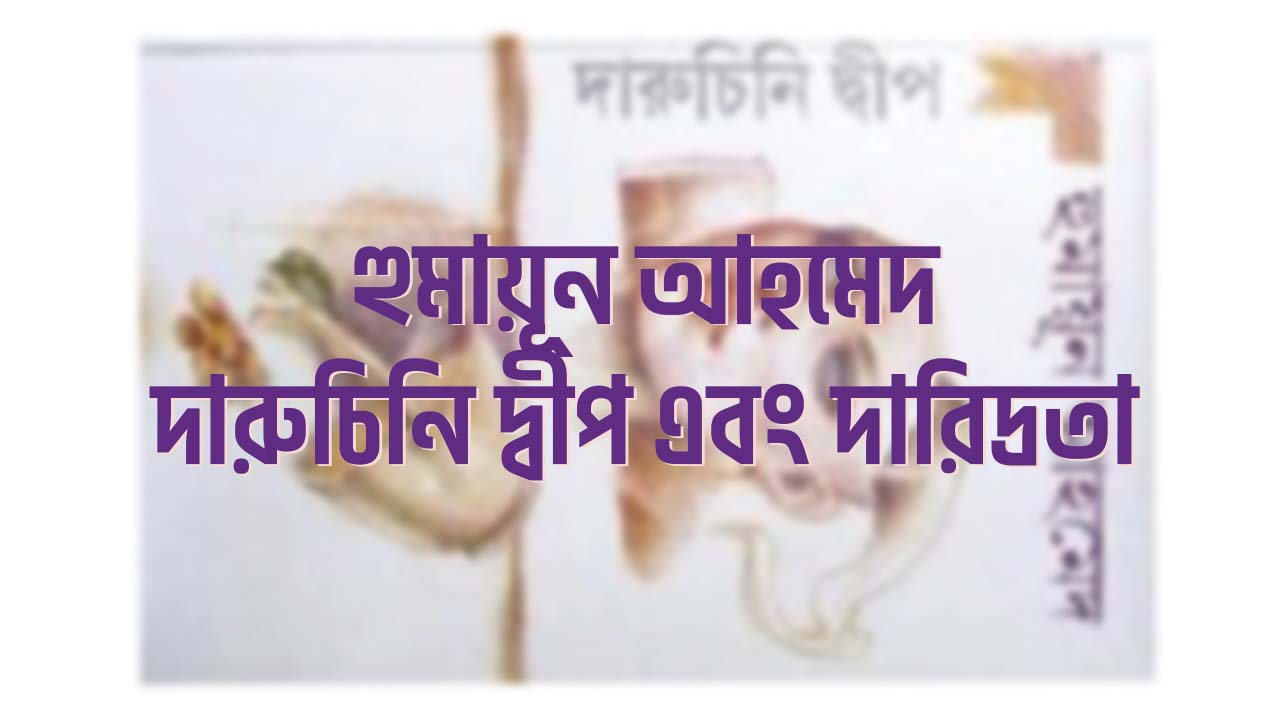
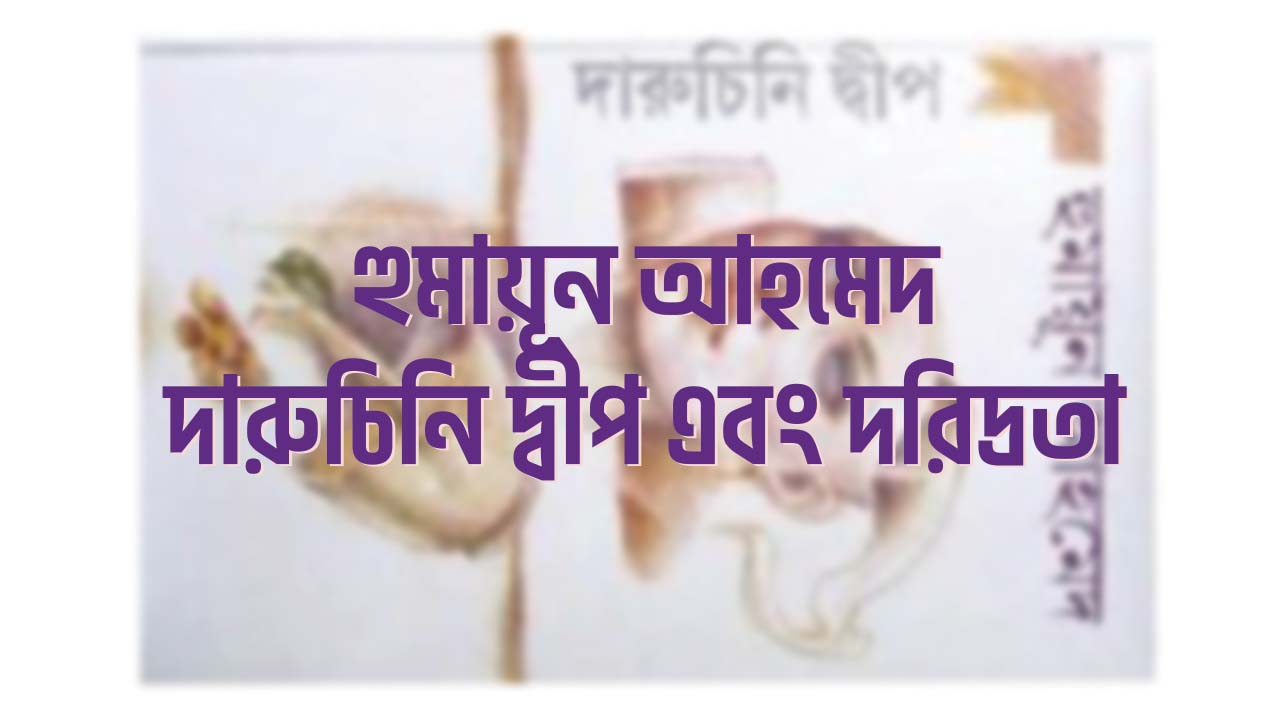
Latest Post Edited

Changed region(s): [[0.125, 0.4889, 0.9062, 0.6722], [0.0938, 0.5194, 0.125, 0.55]]

diff --git a/posts/writings/philosophy/humayun-ahmed-daruchini-dip-daridrota.md b/posts/writings/philosophy/humayun-ahmed-daruchini-dip-daridrota.md
@@ -11,10 +11,10 @@ lang: 'bn'
 description: বর্তমানে আমরা ঠিক এই দারিদ্রতার অভাবেই ভালোবাসতে ভুলে যাচ্ছি। জীবন, ক্যারিয়ার ইত্যাদির মাঝখানে যেনো একটা লুপ চলছে সবসময়।...
 ---
 
-দারুচিনি দ্বীপ ছবিটার শেষের দিকে একটা ডায়ালোগ আছে, “দারিদ্রতা আমার ভালোবাসার অধিকার কাইড়া নিছে।” যদিও এটা একটা বাবার তার মেয়েকে উদ্দেশ্য করে বলা একটা লাইন, তবুও এই লাইনটার গভীরতা অনেক বেশি। সিনটা ছিলো ঠিক এরকম, নিজের মেয়ের সাথে সবসময় কড়া গলায় কথা বলেন বাবা। সেদিনও তার ব্যতিক্রম ছিলোনা। মেয়ে তার বাবার দিকে তাকিয়ে বললেন, “বাবা আমার সাথে একটু নরম ভাষায় কথা বলতে পারো? অনেকদিন বলোনা”, এরপরেই কাঁদতে শুরু করে বাবা-মেয়ে। তখনই বাবা মেয়েকে উদ্দেশ্য করে এই লাইনটা বলেন।
+দারুচিনি দ্বীপ ছবিটার শেষের দিকে একটা ডায়ালোগ আছে, “দরিদ্রতা আমার ভালোবাসার অধিকার কাইড়া নিছে।” যদিও এটা একটা বাবার তার মেয়েকে উদ্দেশ্য করে বলা একটা লাইন, তবুও এই লাইনটার গভীরতা অনেক বেশি। সিনটা ছিলো ঠিক এরকম, নিজের মেয়ের সাথে সবসময় কড়া গলায় কথা বলেন বাবা। সেদিনও তার ব্যতিক্রম ছিলোনা। মেয়ে তার বাবার দিকে তাকিয়ে বললেন, “বাবা আমার সাথে একটু নরম ভাষায় কথা বলতে পারো? অনেকদিন বলোনা”, এরপরেই কাঁদতে শুরু করে বাবা-মেয়ে। তখনই বাবা মেয়েকে উদ্দেশ্য করে এই লাইনটা বলেন।
 
-আমি গভীরভাবে অনুভব করলাম এই লাইনটা অনেক শক্তিশালী। শুধুমাত্র বাবা-মেয়ের ক্ষেত্রেই না, ভালোবাসার ক্ষেত্রেও। উপলব্ধি করলাম, বর্তমানে আমরা ঠিক এই দারিদ্রতার অভাবেই ভালোবাসতে ভুলে যাচ্ছি। জীবন, ক্যারিয়ার ইত্যাদির মাঝখানে যেনো একটা লুপ চলছে সবসময়। সারাদিন পরিশ্রম করছি শুধুমাত্র একটাই আশায়, ভবিষ্যতটা হয়তো সুন্দর হবে। এখন একটু কষ্ট করলে হয়তো ভবিষ্যতের জীবনটা সুখে কাটানো যাবে। এই চাওয়াটা বেশ সুন্দর এবং বাস্তব। তবে এর উল্টো পিঠও আছে। যেমন ধরুন, এই জীবনটাকে ব্যস্ত করতে গিয়ে, জীবনটাকে সুন্দর করে গড়তে গিয়ে, আপনি আপনার বাবা-মায়ের সাথে এক টেবিলে বসে ভাত খাবার সময় পান না, কিংবা আপনি তাদের থেকে দূরে থাকেন এবং সারাদিনের ব্যস্ততায় তাদেরকে ফোন করে খোঁজ নেওয়ারও সময় পান না। যখনও সময় পান, তখনও সেটা ভালোবাসার চাইতে বেশি নিত্যদিনের অভ্যাস আর দায়িত্ববোধ থেকেই, তবে সেখানে মোটাদাগে ভালোবাসা খুঁজতে গেলে পাবেন না বোধহয়। এই স্ট্রাগলে, আপনার প্রিয় মানুষটাকে সময় দেওয়া হচ্ছেনা, একসাথে হয়তো আছেন, কিংবা ভবিষ্যতে থাকবেন, তার খারাপ লাগা, ভালো লাগাকে বুঝার মতো সময়টুকুও নেই আপনার হাতে, সে কিসে অভিমান করে, কিসে করেনা সেটাও আপনি বুঝতে পারেন না, দিনে দিনে আপনাদের দূরত্ব বাড়ে, অথচ, আপনারা স্বপ্ন দেখেছিলেন একসাথে সুন্দরভাবে বাঁচবেন, আর মাত্র কয়েকটা দিন কষ্ট করেই। জীবন গড়িয়ে যাচ্ছে, আর আমরা তখনো দারিদ্রতা এবং মধ্যবিত্তের লুপে আটকা। সুন্দর একটা জীবন চাইতে গিয়ে, নিজেদের বর্তমানকে পড়ার টেবিলেই হারিয়ে ফেলছি আমরা। আদৌতেও জানিনা, যাদের নিয়ে আমরা বাঁচতে চাই, তারা ঠিক আমাদের বর্তমান পেরিয়ে ওঠা পর্যন্ত থাকবেন কিনা, কিংবা আমরাই সেই পর্যন্ত টিকে থাকবো কিনা। কিন্তু, ঠিক যেই স্বপ্নটা আমাদেরকে বাঁচায়, কষ্ট করায়, সেই একই স্বপ্ন, আমাদেরকে আমাদের আপনজনের থেকে দূরেও ঠেলে দেয়।
+আমি গভীরভাবে অনুভব করলাম এই লাইনটা অনেক শক্তিশালী। শুধুমাত্র বাবা-মেয়ের ক্ষেত্রেই না, ভালোবাসার ক্ষেত্রেও। উপলব্ধি করলাম, বর্তমানে আমরা ঠিক এই দরিদ্রতার অভাবেই ভালোবাসতে ভুলে যাচ্ছি। জীবন, ক্যারিয়ার ইত্যাদির মাঝখানে যেনো একটা লুপ চলছে সবসময়। সারাদিন পরিশ্রম করছি শুধুমাত্র একটাই আশায়, ভবিষ্যতটা হয়তো সুন্দর হবে। এখন একটু কষ্ট করলে হয়তো ভবিষ্যতের জীবনটা সুখে কাটানো যাবে। এই চাওয়াটা বেশ সুন্দর এবং বাস্তব। তবে এর উল্টো পিঠও আছে। যেমন ধরুন, এই জীবনটাকে ব্যস্ত করতে গিয়ে, জীবনটাকে সুন্দর করে গড়তে গিয়ে, আপনি আপনার বাবা-মায়ের সাথে এক টেবিলে বসে ভাত খাবার সময় পান না, কিংবা আপনি তাদের থেকে দূরে থাকেন এবং সারাদিনের ব্যস্ততায় তাদেরকে ফোন করে খোঁজ নেওয়ারও সময় পান না। যখনও সময় পান, তখনও সেটা ভালোবাসার চাইতে বেশি নিত্যদিনের অভ্যাস আর দায়িত্ববোধ থেকেই, তবে সেখানে মোটাদাগে ভালোবাসা খুঁজতে গেলে পাবেন না বোধহয়। এই স্ট্রাগলে, আপনার প্রিয় মানুষটাকে সময় দেওয়া হচ্ছেনা, একসাথে হয়তো আছেন, কিংবা ভবিষ্যতে থাকবেন, তার খারাপ লাগা, ভালো লাগাকে বুঝার মতো সময়টুকুও নেই আপনার হাতে, সে কিসে অভিমান করে, কিসে করেনা সেটাও আপনি বুঝতে পারেন না, দিনে দিনে আপনাদের দূরত্ব বাড়ে, অথচ, আপনারা স্বপ্ন দেখেছিলেন একসাথে সুন্দরভাবে বাঁচবেন, আর মাত্র কয়েকটা দিন কষ্ট করেই। জীবন গড়িয়ে যাচ্ছে, আর আমরা তখনো দরিদ্রতা এবং মধ্যবিত্তের লুপে আটকা। সুন্দর একটা জীবন চাইতে গিয়ে, নিজেদের বর্তমানকে পড়ার টেবিলেই হারিয়ে ফেলছি আমরা। আদৌতেও জানিনা, যাদের নিয়ে আমরা বাঁচতে চাই, তারা ঠিক আমাদের বর্তমান পেরিয়ে ওঠা পর্যন্ত থাকবেন কিনা, কিংবা আমরাই সেই পর্যন্ত টিকে থাকবো কিনা। কিন্তু, ঠিক যেই স্বপ্নটা আমাদেরকে বাঁচায়, কষ্ট করায়, সেই একই স্বপ্ন, আমাদেরকে আমাদের আপনজনের থেকে দূরেও ঠেলে দেয়।
 
 পড়ার টেবিলে বসে যখন আপনি আপনার সিলেবাস নিয়ে ভাবছেন, ঠিক সেই সময় আপনার প্রিয় মানুষটা আপনার গতকাল রাতের কোনো একটা কথায় কষ্ট পেয়ে বসে আছে, আপনি জানেনও না। কারণ, অন্য সময়ে তার যেই গলা শুনলেই আপনি বুঝে যেতেন, সামথিং ইজ রং, সেই গলায় এখন আর আপনি সেটা খুঁজে পান না। কারণ, আপনার সেই সময়টাই নেই। যেই রাগ-অভিমান আপনি ভাঙ্গাতেন রাত-দিন বসে, এখন ঠিক সেই রাগ-অভিমানই আপনার কাছে বোঝা। কারণ, আপনি স্বপ্ন পূরণে ব্যস্ত। জীবনের সবচেয়ে গুরুত্বপূর্ণ সময়গুলো আমাদের কাটছে এভাবেই। কেউবা অফিসে বসে, কেউবা পড়ার টেবিলে। সবাই আমরা একই দিকে দৌঁড়াচ্ছি, যেখানে হোঁচট খেলে হয়তো হারাবো নিজেদের সেই স্বপ্নে দেখা ভবিষ্যত, আর জিতে গেলে, বাঁচতে হবে এমন কিছু নিয়ে, যেটা বহুদিন ধরে ঠিক না করতে করতে, গ্রামের ছবিতে থাকা দিগন্তের মতো দূরে। অথচ, আমাদের এই এক জীবনে কতো ভালোবাসা দেওয়ার ছিলো, আমাদের বাবা-মায়েদের, পরিচিতদের, কতো সময় দেওয়ার কথা ছিলো আমাদের প্রিয় মানুষদের, বন্ধুদের। কিন্তু, নিজের ক্যাটেগরী পরিবর্তনের লুপে আমরা আটকা। জমে থাকা ভালোবাসাগুলো যখন বর্তমান থেকে ভবিষ্যতে যাবে, আমাদের স্বপ্নটা পূর্ণতা পাবে, ঠিক তখনো হয়তো সারাদিনের ব্যস্ততা আমাদের ওই একই লুপেই আটকে রাখবে। বাসায় ফিরে ক্লান্ত হয়ে আমরা ঘুমের রাজ্যে চলে যাবো, নিজের প্রিয় মানুষটা, আমাদের বাবা-মা, তাদের দিকে তাকিয়ে নিজেদেরকে বলতে পারবোনা, “এইটুকুই আমার আছে, এটাই আমার পৃথিবী।” কিছুই কি বদলাবে? কিছুই বদলাবেনা! এখনকার স্ট্রাগল হয়ে যাবে তখনকার চাকরি। অথচ, কতো ভালোবাসা নিজের প্রিয় মানুষগুলোর জন্য এই স্ট্রাগলের সময়েই জমা রেখেছি আমরা, তা যদি তাদেরকে বোঝানো যেতো! কিন্তু সময়? নেই!
 
-নিজের ভালোবাসাকে বুকে চেপে রেখে, অপ্রকাশ্য রেখে, দারিদ্রতা আর মধ্যবিত্তের অভিশাপ কাটাচ্ছি আমরা। দিনের পর দিন, সেই অভিশাপে শেষ হচ্ছে আমাদের ভালোবাসা, আর সেটা প্রকাশের ক্ষমতা, কারণ আমরা সবাই ব্যস্ত! তাইতো শেষমেষ, কাজী নজরুল ইসলামের মতো করে বলতে হয়, “হে দারিদ্র্য, তুমি মোরে করেছ মহান্।”
+নিজের ভালোবাসাকে বুকে চেপে রেখে, অপ্রকাশ্য রেখে, দরিদ্রতা আর মধ্যবিত্তের অভিশাপ কাটাচ্ছি আমরা। দিনের পর দিন, সেই অভিশাপে শেষ হচ্ছে আমাদের ভালোবাসা, আর সেটা প্রকাশের ক্ষমতা, কারণ আমরা সবাই ব্যস্ত! তাইতো শেষমেষ, কাজী নজরুল ইসলামের মতো করে বলতে হয়, “হে দারিদ্র্য, তুমি মোরে করেছ মহান্।”
